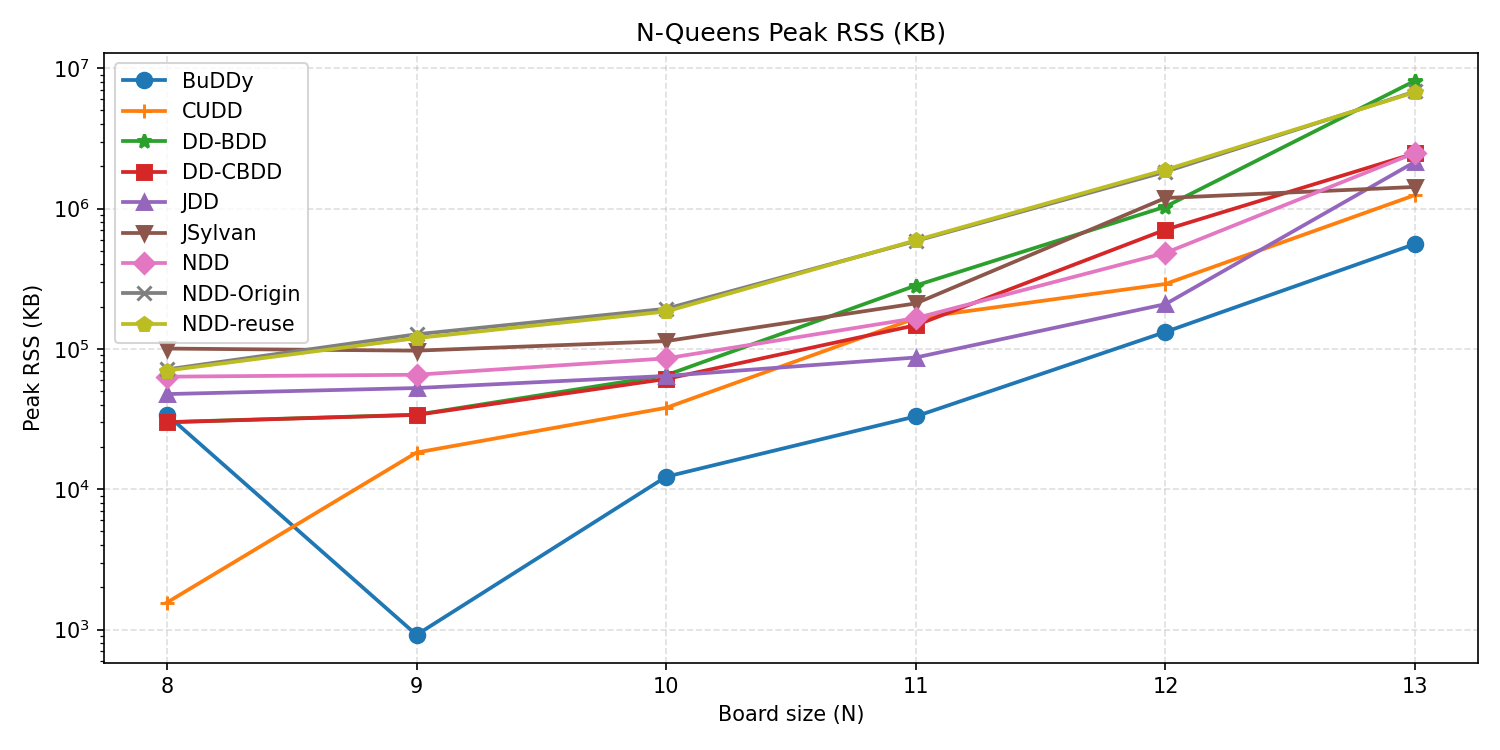
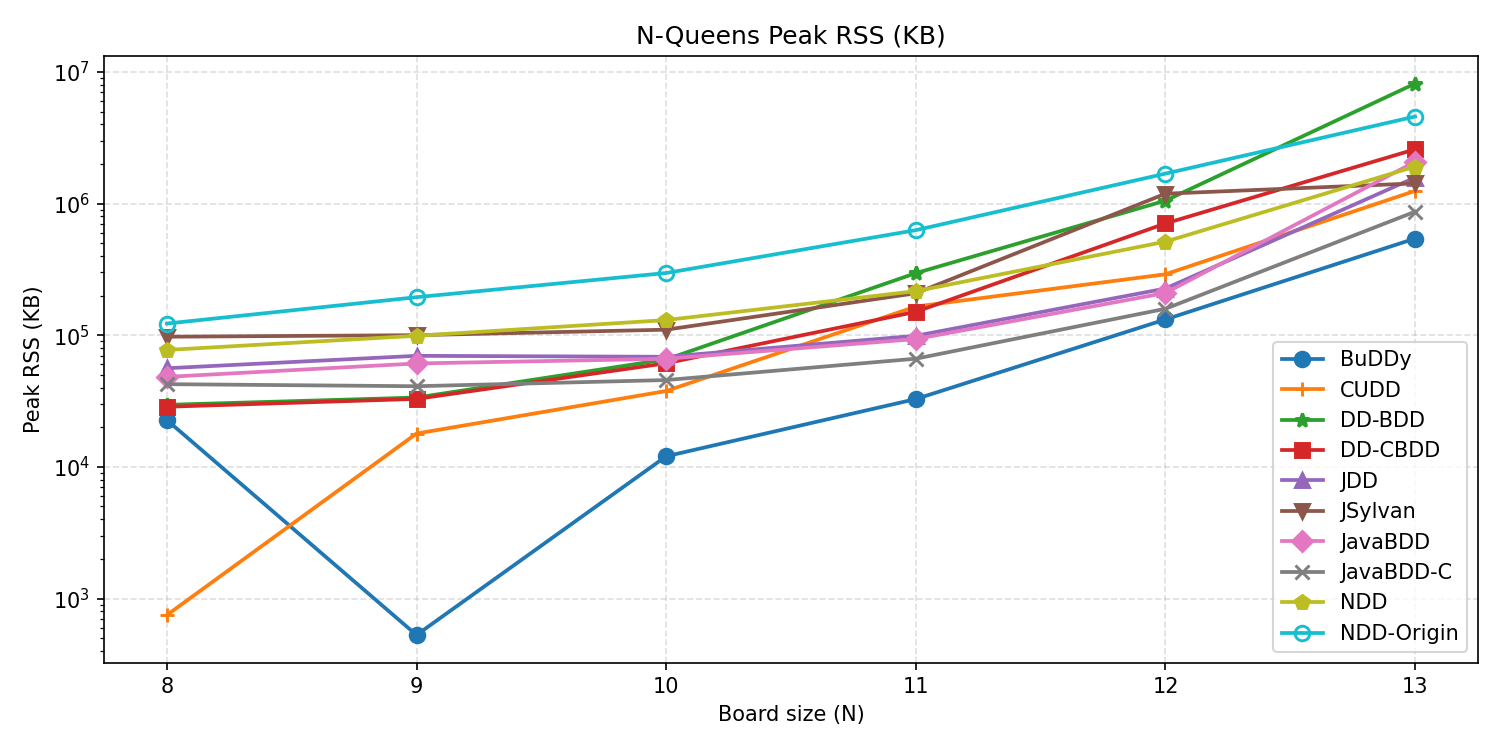
Add JavaBDD nqueensBenchmark

diff --git a/README.md b/README.md
@@ -20,12 +20,14 @@ The following table shows the benchmark for **N-Queens** with N=12 and N=13.
 
 | Implementation | Language | N=12 time (s) | N=13 time (s) |
 | --- | --- | ---: | ---: |
-| BuDDy | C | 41.098 | >500 |
-| CUDD | C | 28.663 | 194.928 |
-| JDD | Java | 19.011 | 148.970 |
-| DD-BDD | C# | 13.931 | 81.584 |
-| DD-CBDD | C# | 9.730 | 55.487 |
-| **NDD** | **Java** | **3.439** | **23.662** |
+| BuDDy | C | 53.601 | >500 |
+| CUDD | C | 31.968 | 224.422 |
+| JDD | Java | 26.878 | 219.003 |
+| JavaBDD-C | Java/C | 24.439 | 230.309 |
+| JavaBDD | Java | 27.867 | 293.619 |
+| DD-BDD | C# | 15.511 | 105.936 |
+| DD-CBDD | C# | 13.055 | 83.637 |
+| **NDD** | **Java** | **3.823** | **27.172** |
 
 For more details, please refer to [N-Queens Benchmark](https://github.com/XJTU-NetVerify/NDD/wiki/Results-NQueens). 
 
